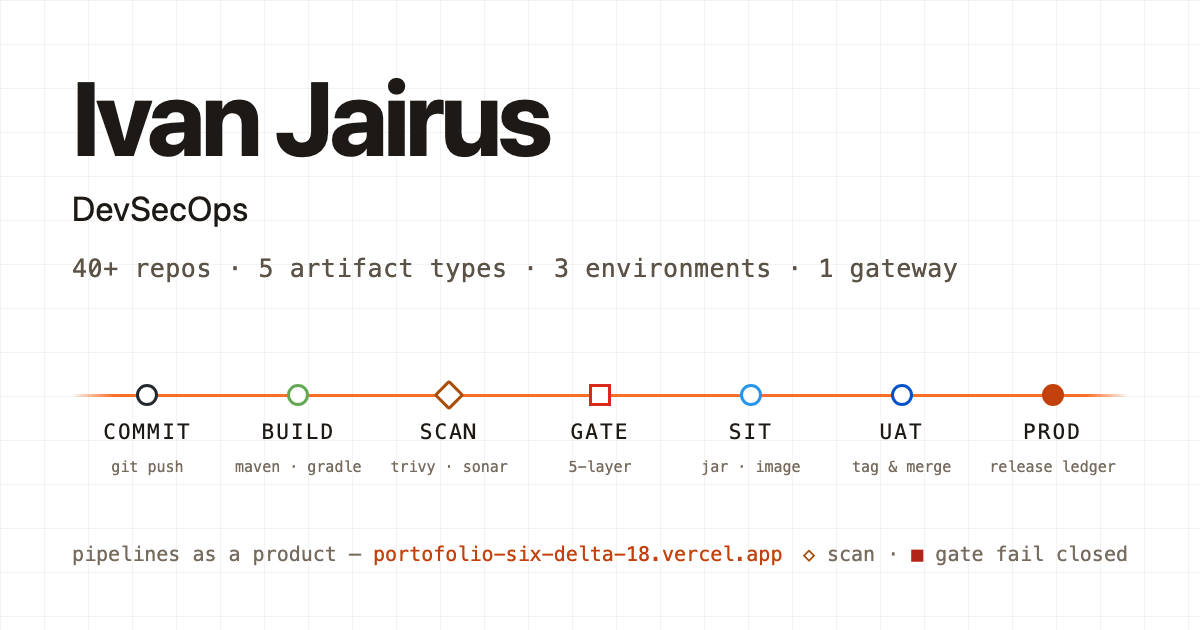
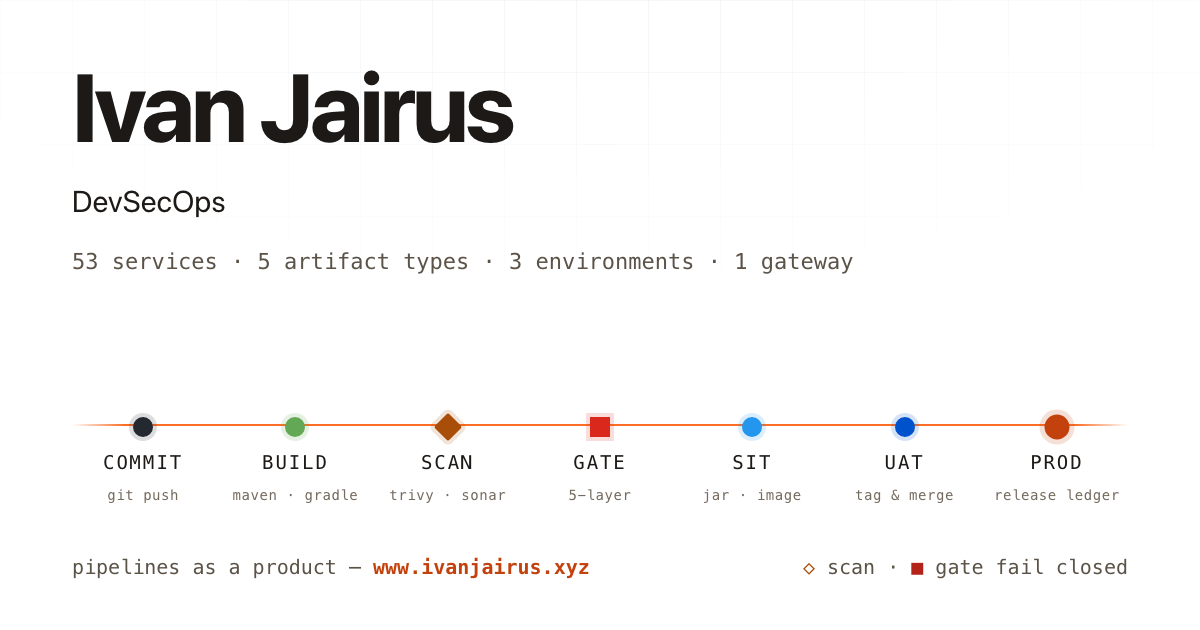
OG cover: rebuilt from a source that is now in the repository.
The shared card carried two facts the page had already outgrown: "40+ repos"
and the vercel.app hostname. That is the artifact a recruiter sees first on
LinkedIn and WhatsApp, so the metadata fix in C1 was only half done - the
image kept pointing at the old domain.

The reason it had not been fixed is worse than the error: the HTML that drew
it was a throwaway harness that no longer exists, and the last change was a
pixel recomposite. So the cover got a real source this time -
assets/og/cover-source.html plus 47 lines of layout - which links the site's
own stylesheets and reuses the hero rail component. Colours, type and node
shapes are not re-declared; they are inherited, which is why the card cannot
drift from the site again without someone changing the site first.

Render command is in a comment at the top of that file. Sublabels are the
short set (maven · gradle, jar · image, 5-layer) because at 1200px the long
ones wrap and an uneven rail reads as a bug. og:image and twitter:image get
?v=2: preview services cache by URL, so without a new URL LinkedIn keeps
serving the card with the old domain on it.

Same 1200x630, 58.663 B (was 69.866 B). Both pages pass html-validate.

diff --git a/assets/og/cover-source.html b/assets/og/cover-source.html
@@ -1,0 +1,47 @@
+<!DOCTYPE html>
+<html lang="en">
+<head>
+<meta charset="utf-8" />
+<!--
+  SUMBER SAMPUL OG — assets/img/og-cover-1200x630.png
+
+  Halaman ini bukan bagian dari situs yang dinavigasi orang; ia ada supaya
+  sampul masih bisa diubah enam bulan dari sekarang. Render ulang:
+
+    chrome --headless=new --hide-scrollbars --window-size=1200,630 \
+      --screenshot=assets/img/og-cover-1200x630.png \
+      http://127.0.0.1:8731/assets/og/cover-source.html
+
+  Kanvas dikunci 1200x630 karena itu ukuran yang diminta LinkedIn, Slack dan
+  WhatsApp. Teksnya disalin manual dari i18n.js — sengaja, supaya sampul tidak
+  berubah diam-diam ketika kalimat di halaman diedit.
+-->
+<meta name="viewport" content="width=1200, initial-scale=1" />
+<title>OG cover source — Ivan Jairus</title>
+<link rel="stylesheet" href="../css/base.css" />
+<link rel="stylesheet" href="../css/showcase.css" />
+<link rel="stylesheet" href="cover.css" />
+</head>
+<body class="og">
+  <main class="og-in">
+    <h1 class="og-name">Ivan Jairus</h1>
+    <p class="og-role">DevSecOps</p>
+    <p class="og-facts">53 services · 5 artifact types · 3 environments · 1 gateway</p>
+
+    <div class="hero-flow og-rail">
+      <div class="hf-line"></div>
+      <div class="hf-node lit" data-hf="0"><i></i><span>commit</span><em class="hf-sub">git push</em></div>
+      <div class="hf-node lit" data-hf="1"><i></i><span>build</span><em class="hf-sub">maven · gradle</em></div>
+      <div class="hf-node lit hf-scan" data-hf="2"><i></i><span>scan</span><em class="hf-sub">trivy · sonar</em></div>
+      <div class="hf-node lit hf-gate" data-hf="3"><i></i><span>gate</span><em class="hf-sub">5-layer</em></div>
+      <div class="hf-node lit" data-hf="4"><i></i><span>SIT</span><em class="hf-sub">jar · image</em></div>
+      <div class="hf-node lit" data-hf="5"><i></i><span>UAT</span><em class="hf-sub">tag &amp; merge</em></div>
+      <div class="hf-node lit hf-prod" data-hf="6"><i></i><span>PROD</span><em class="hf-sub">release ledger</em></div>
+    </div>
+
+    <p class="og-foot"><span>pipelines as a product — <b>www.ivanjairus.xyz</b></span>
+      <span class="og-legend"><span class="lm-scan" aria-hidden="true">◇</span> scan · <span class="lm-gate" aria-hidden="true">■</span> gate fail closed</span>
+    </p>
+  </main>
+</body>
+</html>

diff --git a/assets/og/cover.css b/assets/og/cover.css
@@ -1,0 +1,58 @@
+/* ============================================================
+   Tata letak sampul OG. Sengaja kecil: satu kanvas 1200x630, tanpa responsif,
+   tanpa state. Warna, tipografi, dan rel pipeline diimpor apa adanya dari
+   stylesheet situs supaya sampul tidak pernah terlihat seperti produk lain.
+   ============================================================ */
+html, body { width: 1200px; height: 630px; overflow: hidden; }
+body.og { background: var(--bg); }
+.og-in {
+  position: relative;
+  z-index: 1;
+  height: 100%;
+  box-sizing: border-box;
+  padding: 58px 72px 46px;
+  display: flex;
+  flex-direction: column;
+}
+.og-name {
+  font-size: 96px;
+  line-height: 1;
+  letter-spacing: -0.035em;
+}
+.og-role {
+  font-size: 30px;
+  color: var(--ink);
+  margin-top: 22px;
+}
+.og-facts {
+  font-family: var(--font-mono);
+  font-size: 22px;
+  color: var(--ink-dim);
+  margin-top: 18px;
+}
+.og-rail {
+  margin-top: auto;
+  padding-top: 34px;
+}
+.og-rail .hf-line { top: 41px; }
+.og-rail .hf-node i { width: 20px; height: 20px; }
+.og-rail .hf-node span { font-size: 19px; }
+.og-rail .hf-sub {
+  font-family: var(--font-mono);
+  font-size: 14px;
+  color: var(--ink-faint);
+  margin-top: -4px;
+  white-space: nowrap;
+}
+.og-foot {
+  font-family: var(--font-mono);
+  font-size: 20px;
+  color: var(--ink-dim);
+  margin-top: 44px;
+  display: flex;
+  justify-content: space-between;
+  gap: 24px;
+}
+.og-foot b { color: var(--accent); font-weight: 600; }
+.og-legend .lm-scan { color: var(--warn); }
+.og-legend .lm-gate { color: var(--danger); }

diff --git a/index.html b/index.html
@@ -12,14 +12,14 @@
   <meta property="og:url" content="https://www.ivanjairus.xyz/" />
   <meta property="og:title" content="Ivan Jairus — DevSecOps" />
   <meta property="og:description" content="CI/CD pipelines as a product, security gates, and release automation for banking-grade systems. One gateway, fifty-three services." />
-  <meta property="og:image" content="https://www.ivanjairus.xyz/assets/img/og-cover-1200x630.png" />
+  <meta property="og:image" content="https://www.ivanjairus.xyz/assets/img/og-cover-1200x630.png?v=2" />
   <meta property="og:image:width" content="1200" />
   <meta property="og:image:height" content="630" />
   <meta property="og:image:alt" content="Ivan Jairus, DevSecOps, above a release pipeline rail: commit, build, scan, gate, SIT, UAT, PROD." />
   <meta name="twitter:card" content="summary_large_image" />
   <meta name="twitter:title" content="Ivan Jairus — DevSecOps" />
   <meta name="twitter:description" content="CI/CD pipelines as a product, security gates, and release automation for banking-grade systems." />
-  <meta name="twitter:image" content="https://www.ivanjairus.xyz/assets/img/og-cover-1200x630.png" />
+  <meta name="twitter:image" content="https://www.ivanjairus.xyz/assets/img/og-cover-1200x630.png?v=2" />
   <meta name="twitter:image:alt" content="Release pipeline rail: commit, build, scan, gate, SIT, UAT, PROD." />
   <!-- Structured data: hanya fakta yang juga tampil di halaman. worksFor sengaja
        nama generik, sama seperti seluruh isi situs - bukan karena perusahaannya
